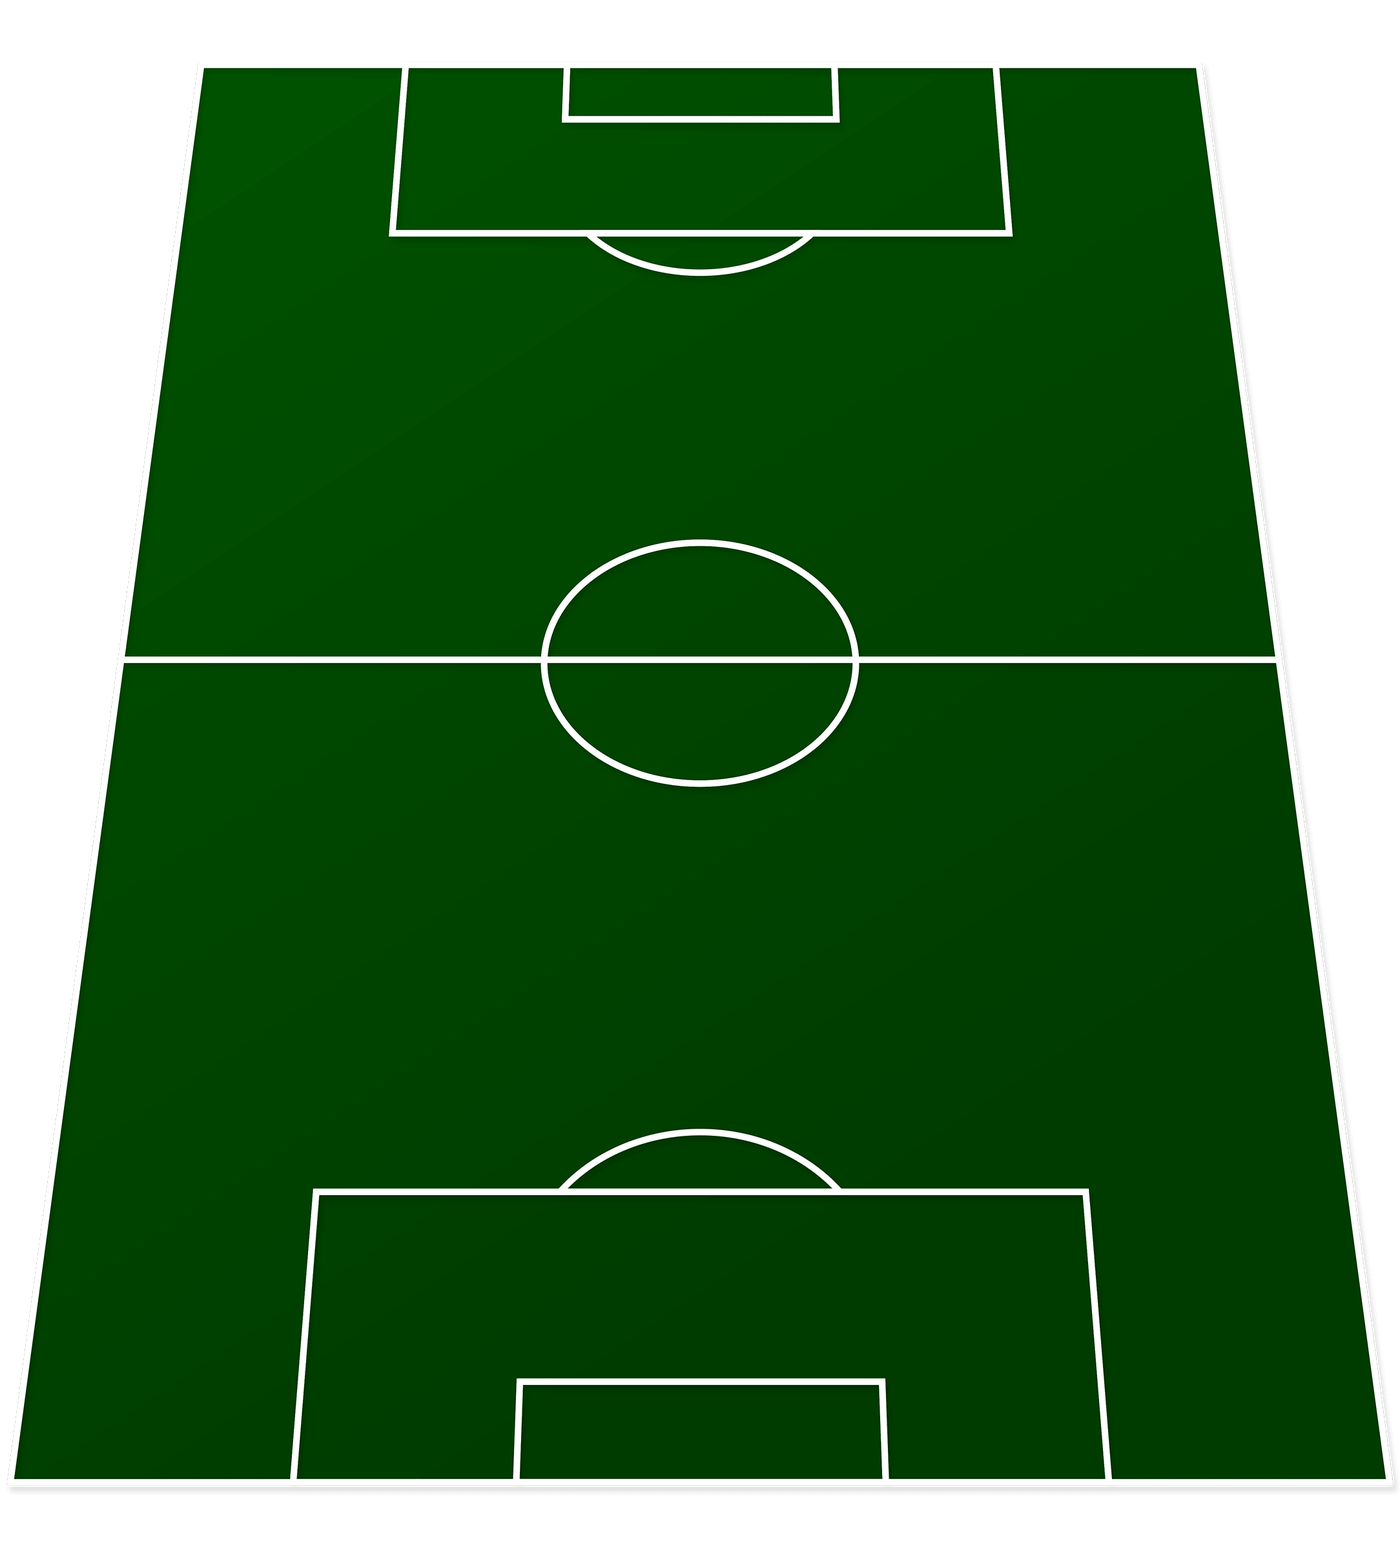
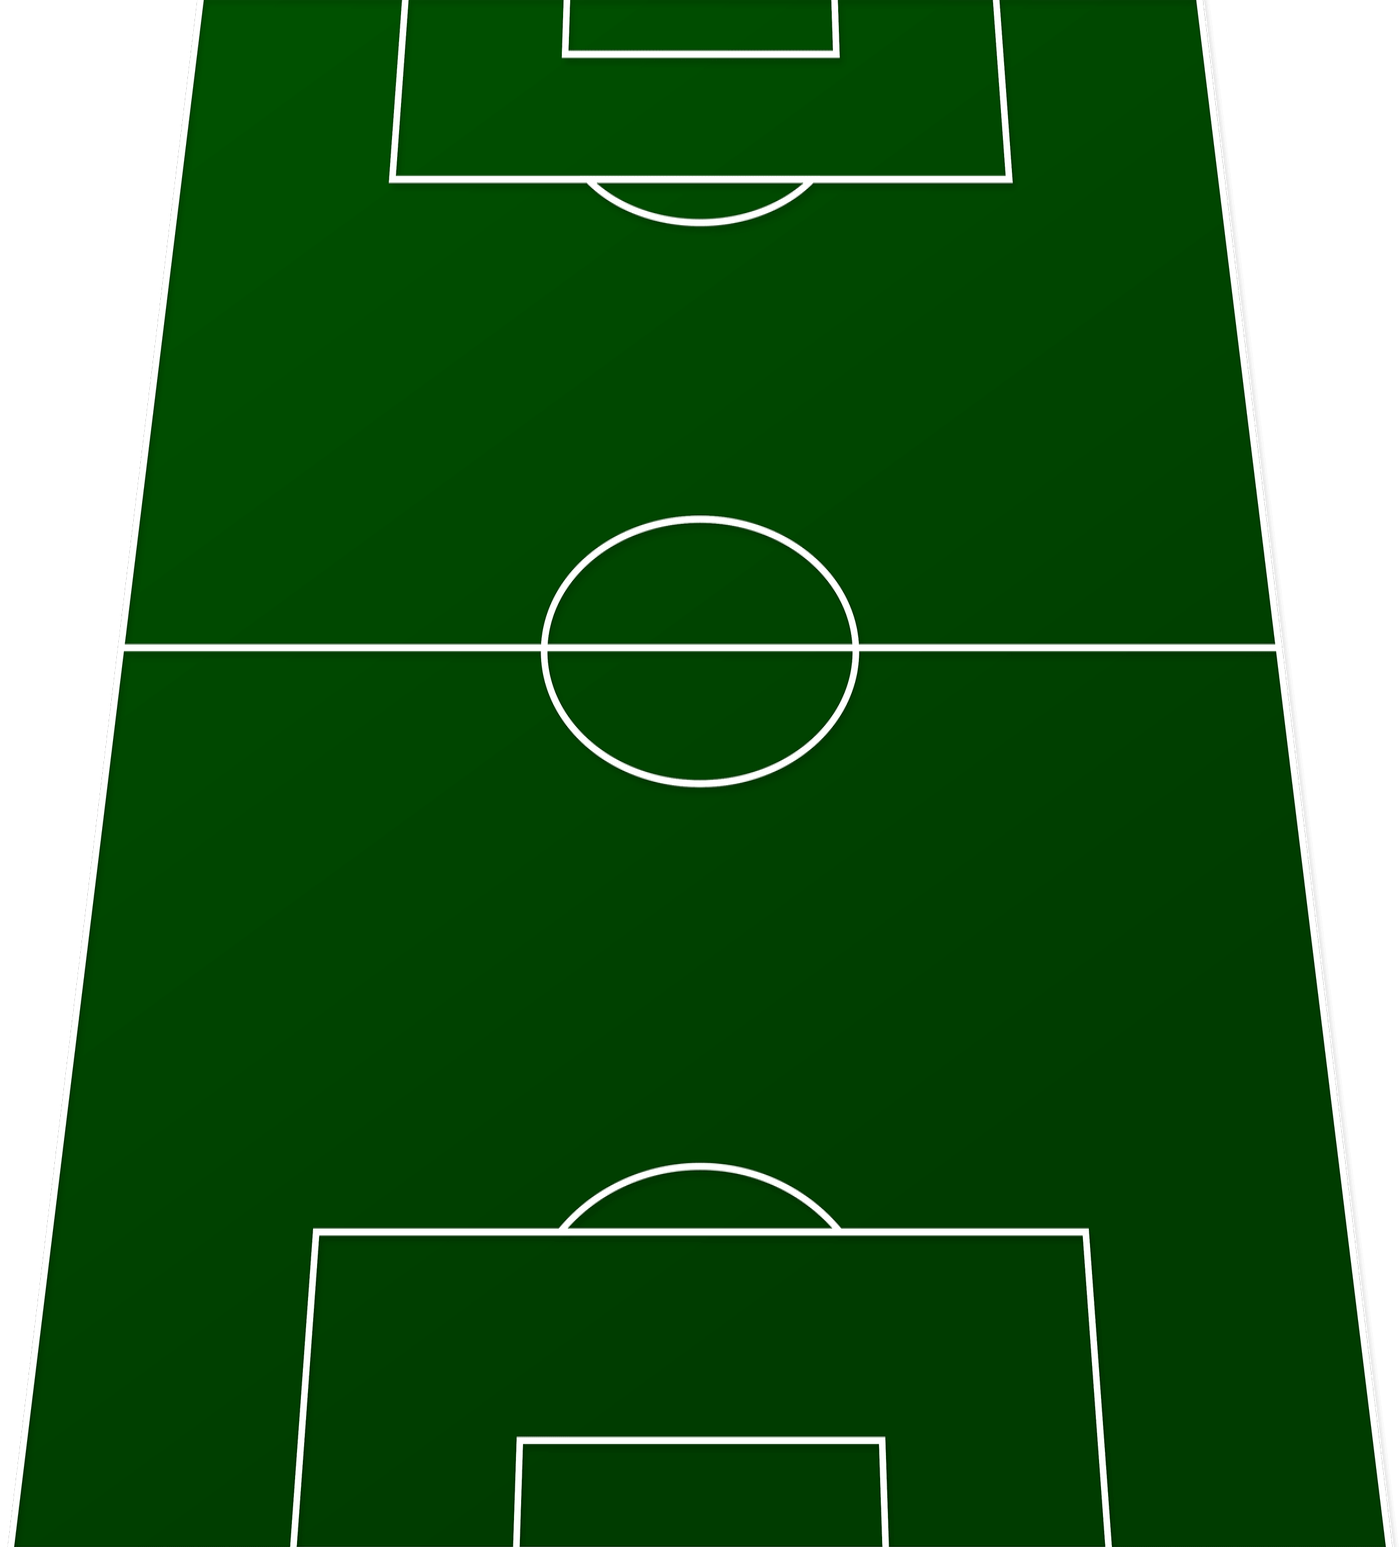
line up styling changes

diff --git a/src/components/lineup/lineup.tsx b/src/components/lineup/lineup.tsx
@@ -25,7 +25,15 @@ export default function Lineup({ selected, bench, teamPicks, teamData }: LineupP
       textAlign: "center",
     };
     return (
-      <Box sx={{ display: "flex", flexDirection: "column", width: "100%" }}>
+      <Box
+        sx={{
+          display: "flex",
+          flexDirection: "column",
+          width: "100%",
+          maxWidth: "80%",
+          margin: "auto",
+        }}
+      >
         {teamData && (
           <Typography sx={{ fontSize: "30px", textAlign: "center" }}>{teamData.name}</Typography>
         )}
@@ -35,22 +43,30 @@ export default function Lineup({ selected, bench, teamPicks, teamData }: LineupP
             justifyContent: "center",
             alignItems: "center",
             columnGap: 1,
-            mt: 2,
+            mt: 1,
             overflow: "hidden",
             width: "100%",
           }}
         >
           {teamPicks && (
             <Typography sx={textStyling}>
-              ACTIVE CHIP: {teamPicks.active_chip.toUpperCase()}
+              ACTIVE CHIP:
+              <br />
+              {teamPicks.active_chip.toUpperCase()}
             </Typography>
           )}
           {teamData && (
-            <Typography sx={textStyling}>GW POINTS: {teamData.summary_event_points}</Typography>
+            <Typography sx={textStyling}>
+              GW POINTS:
+              <br />
+              {teamData.summary_event_points}
+            </Typography>
           )}
           {teamData && (
             <Typography sx={textStyling}>
-              OVERALL RANK: {numberWithCommas(teamData.summary_overall_rank)}
+              OVERALL RANK:
+              <br />
+              {numberWithCommas(teamData.summary_overall_rank)}
             </Typography>
           )}
         </Box>
@@ -63,13 +79,13 @@ export default function Lineup({ selected, bench, teamPicks, teamData }: LineupP
       <Box
         data-testid="first-xi-players"
         sx={{
-          p: 4,
+          pl: "5%",
+          pr: "5%",
+          pb: "5%",
           backgroundImage: `url(${process.env.PUBLIC_URL}/assets/images/pitch.png)`,
           backgroundSize: "100% 100%",
           backgroundRepeat: "no-repeat",
-          backgroundPositionY: 40,
           height: "100%",
-          rowSpacing: 2,
           margin: "auto",
           display: "flex",
           flexDirection: "column",
@@ -101,7 +117,15 @@ export default function Lineup({ selected, bench, teamPicks, teamData }: LineupP
 
   const renderBench = (): JSX.Element => {
     return (
-      <Box sx={{ display: "flex", alignItems: "center", flexDirection: "column", rowGap: 2 }}>
+      <Box
+        sx={{
+          display: "flex",
+          alignItems: "center",
+          flexDirection: "column",
+          boxShadow: 4,
+          p: 1.5,
+        }}
+      >
         <Typography fontSize={20}>Bench</Typography>
         <Box
           sx={{
@@ -109,9 +133,6 @@ export default function Lineup({ selected, bench, teamPicks, teamData }: LineupP
             width: "100%",
             justifyContent: "space-around",
             alignItems: "center",
-            rowSpacing: 2,
-            pl: 10,
-            pr: 10,
           }}
           data-testid="bench-players"
         >
@@ -124,7 +145,7 @@ export default function Lineup({ selected, bench, teamPicks, teamData }: LineupP
   };
 
   return (
-    <Box sx={{ height: "100%", p: 3, display: "flex", flexDirection: "column" }}>
+    <Box sx={{ height: "100%", p: 3, display: "flex", flexDirection: "column", rowGap: 1.5 }}>
       {!!teamData && !!teamPicks && renderInfo()}
       {renderSelected()}
       {renderBench()}

diff --git a/src/components/player/player.tsx b/src/components/player/player.tsx
@@ -1,5 +1,5 @@
 import React from "react";
-import { Box, Grid, Typography } from "@mui/material";
+import { Box, Typography } from "@mui/material";
 import { Player as PlayerType } from "types/player";
 
 interface PlayerProps {
@@ -8,21 +8,31 @@ interface PlayerProps {
 
 export default function Player({ player }: PlayerProps): JSX.Element {
   return (
-    <Grid container direction="column" alignItems="center" data-testid={player.id}>
-      <Grid item>
-        <img
-          data-testid="player-shirt-image"
-          src={`${process.env.PUBLIC_URL}/assets/images/kits/${player.team_code}.png`}
-          alt="kit-img"
-          height={50}
-        />
-      </Grid>
+    <Box
+      sx={{
+        display: "flex",
+        flexDirection: "column",
+        alginItems: "center",
+        justifyContent: "center",
+      }}
+      data-testid={player.id}
+    >
+      <Box
+        sx={{
+          display: "block",
+          width: "4vw",
+          height: "5vh",
+          margin: "auto",
+          backgroundImage: `url(${process.env.PUBLIC_URL}/assets/images/kits/${player.team_code}.png)`,
+          backgroundSize: "100%",
+          backgroundRepeat: "no-repeat",
+        }}
+      />
       <Box
         sx={{
           color: "black",
           textAlign: "center",
-          width: "100%",
-          maxWidth: "6em",
+          width: "7vw",
           pl: 0.5,
           pr: 0.5,
         }}
@@ -36,8 +46,8 @@ export default function Player({ player }: PlayerProps): JSX.Element {
               textOverflow: "ellipsis",
               whiteSpace: "nowrap",
               backgroundColor: "#16B7EA",
-              fontSize: "14px",
-              width: "100%",
+              fontSize: "1em",
+              width: "75%",
             }}
           >
             {player.web_name.toUpperCase()}
@@ -46,16 +56,15 @@ export default function Player({ player }: PlayerProps): JSX.Element {
             data-testid="player-score"
             sx={{
               backgroundColor: "#5fdd6b",
-              fontSize: "14px",
+              fontSize: "1em",
               p: 0.5,
-              width: "50%",
-              maxWidth: "2em",
+              width: "1.5em",
             }}
           >
             {player.event_points}
           </Typography>
         </Box>
       </Box>
-    </Grid>
+    </Box>
   );
 }
